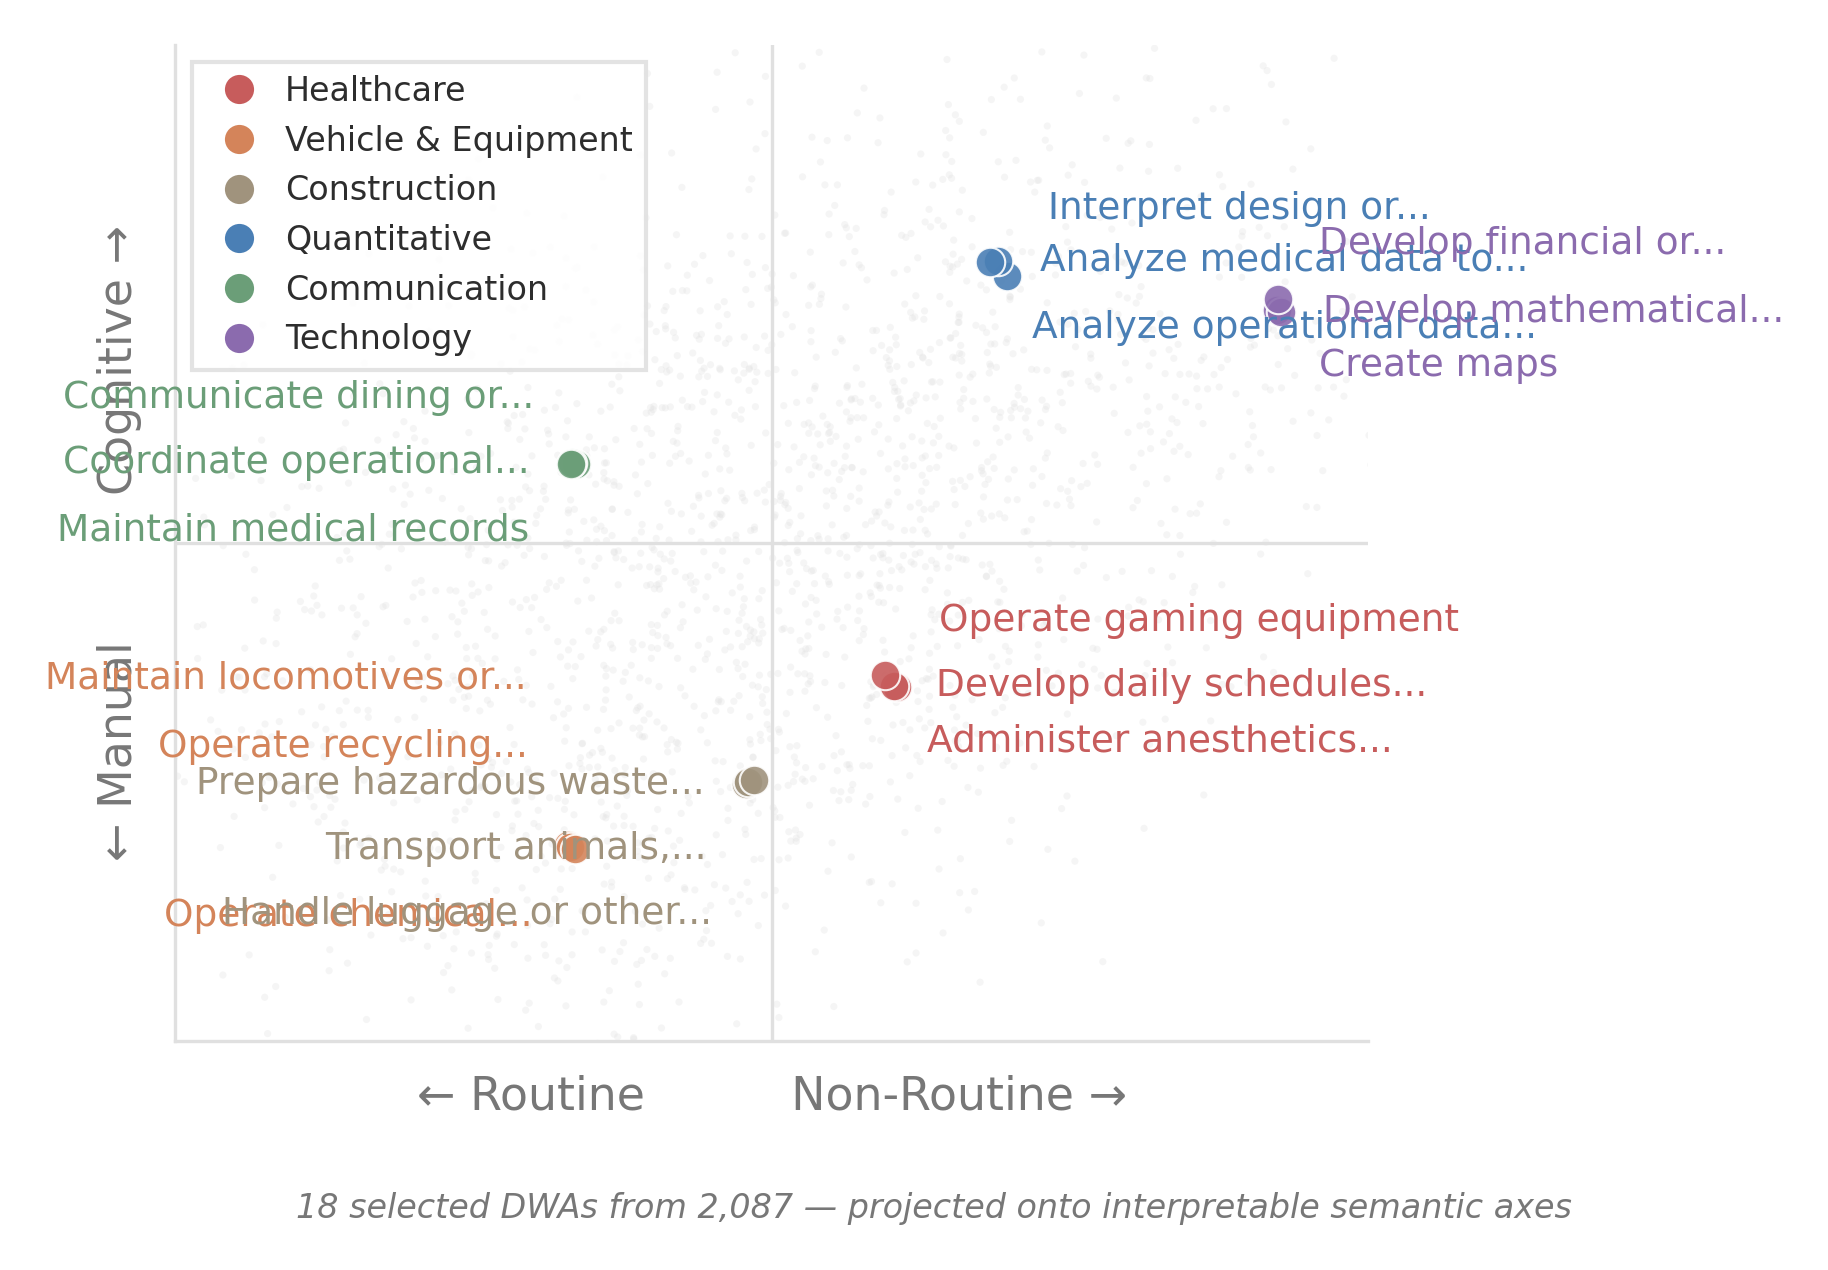
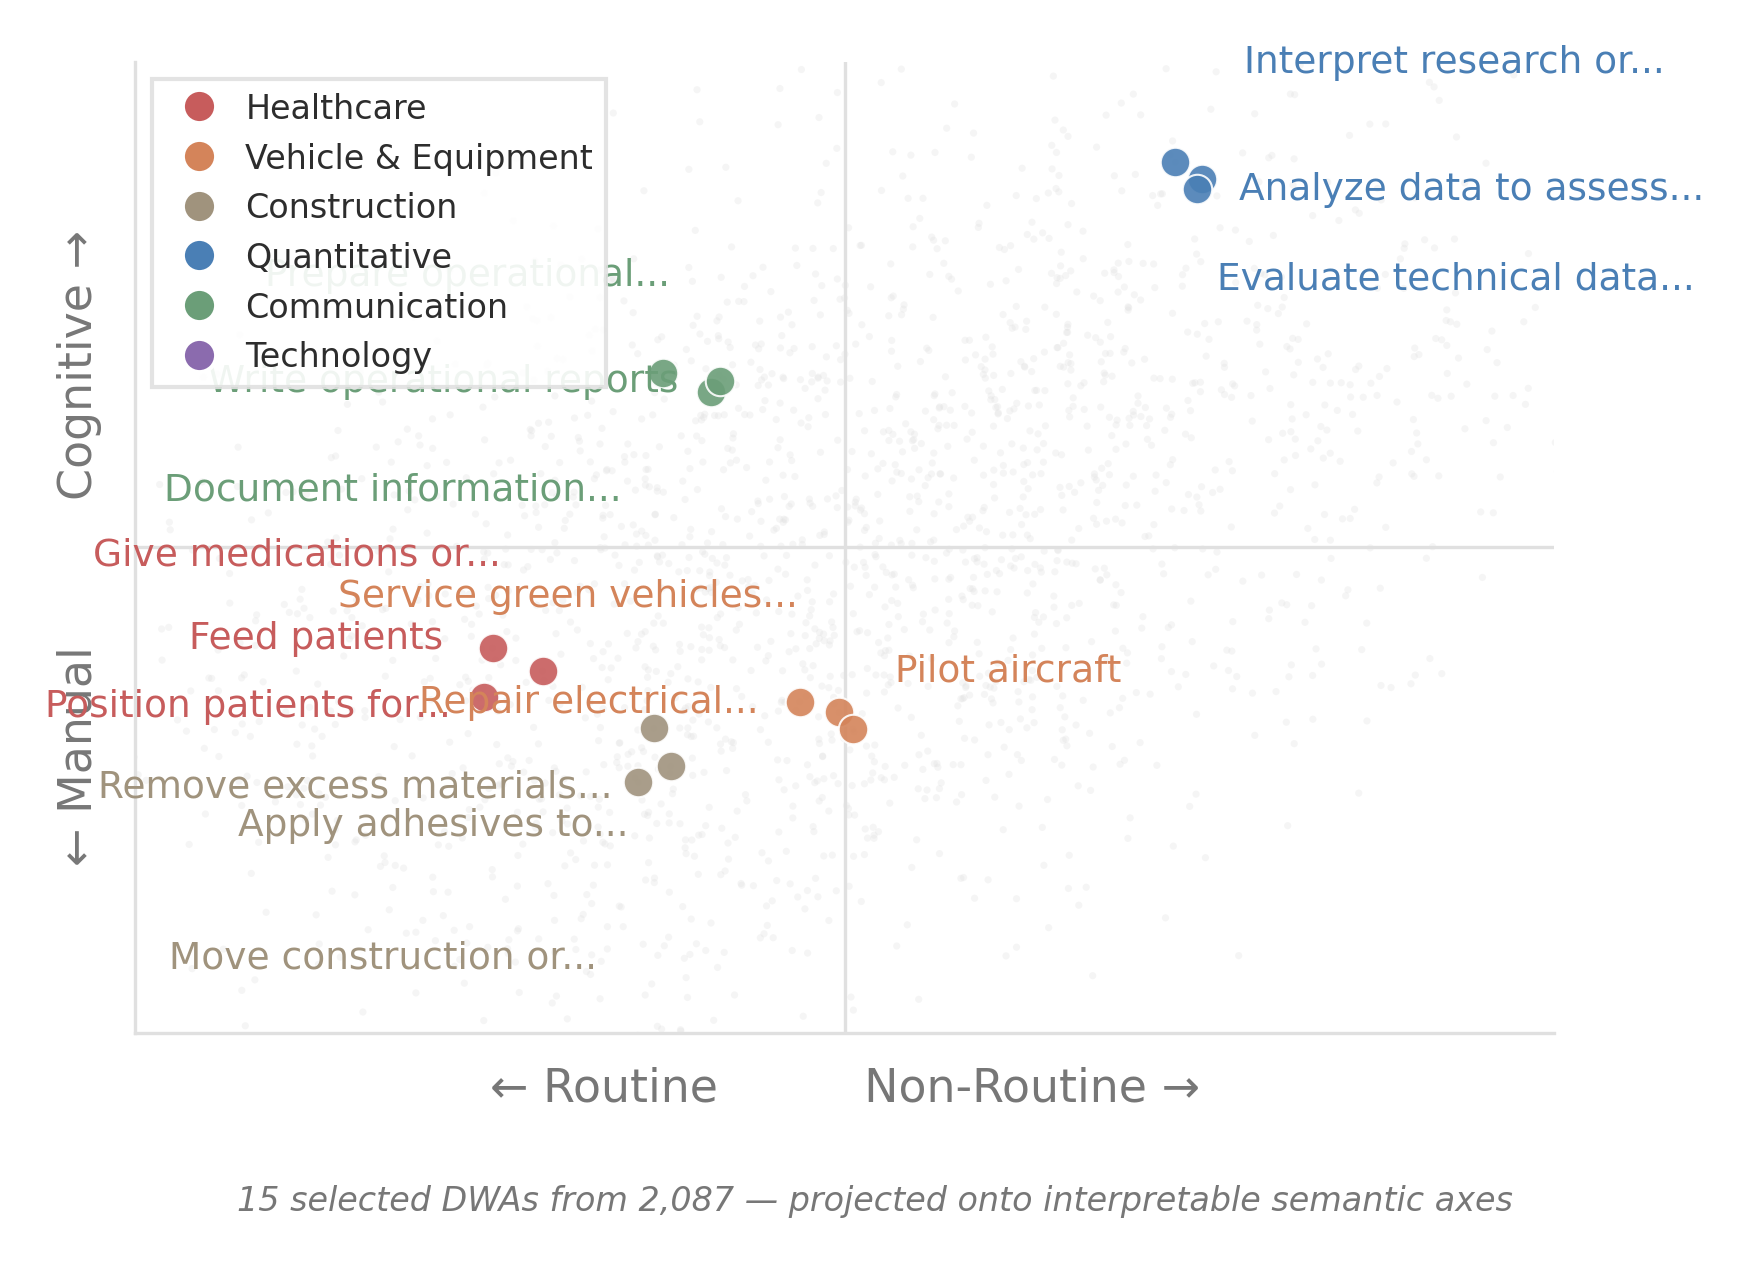
v0.7.10.6: Fig3 keyword-filtered theme assignment + diversity filter
Technology theme empty — 0 DWAs pass both GWA + keyword filter.
Other 5 themes produce thematically appropriate triples.
15 DWAs selected (was 18 target).

diff --git a/figures/fig3_task_scatter.py b/figures/fig3_task_scatter.py
@@ -1,6 +1,6 @@
 """
-Figure 3 v4 — Task embeddings with Routine/Manual semantic axes
-Density-based DWA selection: tightest 3-DWA cluster per theme.
+Figure 3 v5 — Task embeddings with Routine/Manual semantic axes
+Density-based DWA selection with keyword-filtered theme assignment.
 Target: Slide 4 ("Tasks in Semantic Space")
 """
 import sys, os
@@ -39,25 +39,49 @@ anchors = {
     'manual':      "manual physical hands-on bodily labor using tools and equipment",
 }
 
-# === GWA-to-theme mapping ===
+# === Stage 1: Narrowed GWA-to-theme mapping ===
+# Removed broad GWAs that leak irrelevant DWAs:
+#   "Performing for or Working Directly with the Public" (casino operators)
+#   "Handling and Moving Objects" (luggage handlers)
+#   "Thinking Creatively" (financial planners)
+#   "Controlling Machines and Processes" (too generic)
+#   "Processing Information" (too generic)
+#   "Communicating with Supervisors" (internal comms)
+#   "Updating and Using Relevant Knowledge" (too broad)
 GWA_TO_THEME = {
     'Assisting and Caring for Others': 'Healthcare',
-    'Performing for or Working Directly with the Public': 'Healthcare',
-    'Handling and Moving Objects': 'Construction',
     'Performing General Physical Activities': 'Construction',
     'Repairing and Maintaining Mechanical Equipment': 'Vehicle & Equipment',
     'Operating Vehicles, Mechanized Devices, or Equipment': 'Vehicle & Equipment',
-    'Controlling Machines and Processes': 'Vehicle & Equipment',
     'Analyzing Data or Information': 'Quantitative',
-    'Processing Information': 'Quantitative',
     'Estimating the Quantifiable Characteristics of Products, Events, or Information': 'Quantitative',
-    'Communicating with Supervisors, Peers, or Subordinates': 'Communication',
     'Communicating with People Outside the Organization': 'Communication',
     'Documenting/Recording Information': 'Communication',
     'Interacting With Computers': 'Technology',
-    'Thinking Creatively': 'Technology',
-    'Updating and Using Relevant Knowledge': 'Technology',
 }
+
+# === Stage 2: Keyword confirmation ===
+THEME_KEYWORDS = {
+    'Healthcare':          ['patient', 'medical', 'health', 'treat', 'diagnos', 'nurs',
+                            'therap', 'immuniz', 'prescri', 'symptom'],
+    'Vehicle & Equipment': ['vehicle', 'drive', 'truck', 'aircraft', 'pilot', 'forklift',
+                            'engine', 'mechanic', 'tire', 'cargo', 'equipment'],
+    'Construction':        ['construct', 'build', 'weld', 'masonry', 'concrete', 'plumb',
+                            'excavat', 'trench', 'scaffold', 'install', 'roofing', 'mortar',
+                            'lumber'],
+    'Quantitative':        ['financial', 'data', 'statistic', 'calculat', 'budget', 'quantit',
+                            'forecast', 'analyz', 'audit', 'account'],
+    'Communication':       ['document', 'write', 'edit', 'report', 'present', 'correspond',
+                            'publish', 'transcri', 'proofread'],
+    'Technology':          ['software', 'computer', 'network', 'program', 'database', 'server',
+                            'code', 'cyber', 'web', 'digital'],
+}
+
+
+def passes_keyword_filter(title, theme):
+    title_lower = title.lower()
+    return any(kw in title_lower for kw in THEME_KEYWORDS[theme])
+
 
 # === Load embeddings ===
 print("Loading DWA domain and embeddings...")
@@ -71,10 +95,23 @@ print(f"Loaded {len(dwa_ids)} DWAs, embeddings shape: {embeddings.shape}")
 # === Load GWA metadata ===
 dwa_meta = pd.read_excel('data/onet/db_30_0_excel/DWA Reference.xlsx')
 dwa_meta = dwa_meta[['DWA ID', 'Element Name']].drop_duplicates(subset='DWA ID').sort_values('DWA ID')
-# Align to domain order
 dwa_id_to_gwa = dict(zip(dwa_meta['DWA ID'], dwa_meta['Element Name']))
 gwa_names = [dwa_id_to_gwa.get(aid, '') for aid in dwa_ids]
-themes = [GWA_TO_THEME.get(g, None) for g in gwa_names]
+
+# Two-stage theme assignment: GWA narrows, keyword confirms
+themes = []
+for i, gwa in enumerate(gwa_names):
+    candidate_theme = GWA_TO_THEME.get(gwa, None)
+    if candidate_theme and passes_keyword_filter(dwa_texts[i], candidate_theme):
+        themes.append(candidate_theme)
+    else:
+        themes.append(None)
+
+# Report pool sizes
+print("\nTheme pool sizes (after GWA + keyword filter):")
+for theme in CLUSTER_COLORS:
+    n = sum(1 for t in themes if t == theme)
+    print(f"  {theme:<22s}  {n}")
 
 # === Embed anchors ===
 anchor_texts = list(anchors.values())
@@ -88,28 +125,27 @@ sim_r  = cos_sim(embeddings, anchor_dict['routine']).flatten()
 sim_c  = cos_sim(embeddings, anchor_dict['cognitive']).flatten()
 sim_m  = cos_sim(embeddings, anchor_dict['manual']).flatten()
 
-raw_x = sim_nr - sim_r   # routine (left) → non-routine (right)
-raw_y = sim_c - sim_m    # manual (bottom) → cognitive (top)
+raw_x = sim_nr - sim_r
+raw_y = sim_c - sim_m
 
-print(f"Raw X: mean={raw_x.mean():.4f}, std={raw_x.std():.4f}")
+print(f"\nRaw X: mean={raw_x.mean():.4f}, std={raw_x.std():.4f}")
 print(f"Raw Y: mean={raw_y.mean():.4f}, std={raw_y.std():.4f}")
 
 if raw_x.std() < 0.01 or raw_y.std() < 0.01:
     print("STOP: Axis std < 0.01 — anchors not discriminating")
     sys.exit(1)
 
-# Rescale to ~±5
 all_x = (raw_x - raw_x.mean()) / raw_x.std() * 2.5
 all_y = (raw_y - raw_y.mean()) / raw_y.std() * 2.5
 
 
 # === Density-based selection: tightest triple per theme ===
 def find_densest_triple(idxs, all_x, all_y, max_search=30):
-    """Find 3 points with minimum total pairwise 2D distance."""
+    """Find 3 points with minimum total pairwise 2D distance.
+    Requires all three DWAs to start with different first words."""
     xs = np.array([all_x[i] for i in idxs])
     ys = np.array([all_y[i] for i in idxs])
 
-    # For large groups, narrow search to densest region
     if len(idxs) > 50:
         tree = cKDTree(np.column_stack([xs, ys]))
         k = min(10, len(idxs) - 1)
@@ -122,14 +158,15 @@ def find_densest_triple(idxs, all_x, all_y, max_search=30):
 
     best_dist = float('inf')
     best = None
-    texts = [dwa_texts[i] for i in search]
     for combo in combinations(range(len(search)), 3):
-        i, j, k = combo
-        # Text diversity: require different first words
-        first_words = {texts[i].split()[0], texts[j].split()[0], texts[k].split()[0]}
-        if len(first_words) < 2:
+        a, b, c = combo
+        ii, jj, kk = search[a], search[b], search[c]
+        # Diversity: all three must start with different words
+        fw = [dwa_texts[ii].split()[0].lower(),
+              dwa_texts[jj].split()[0].lower(),
+              dwa_texts[kk].split()[0].lower()]
+        if len(set(fw)) < 3:
             continue
-        ii, jj, kk = search[i], search[j], search[k]
         d = (np.hypot(all_x[ii] - all_x[jj], all_y[ii] - all_y[jj]) +
              np.hypot(all_x[ii] - all_x[kk], all_y[ii] - all_y[kk]) +
              np.hypot(all_x[jj] - all_x[kk], all_y[jj] - all_y[kk]))
@@ -140,13 +177,17 @@ def find_densest_triple(idxs, all_x, all_y, max_search=30):
 
 
 selected = []
+print("\n=== Selected triples ===")
 for theme in CLUSTER_COLORS:
     idxs = [i for i, t in enumerate(themes) if t == theme]
     if len(idxs) < 3:
-        print(f"WARNING: {theme} has only {len(idxs)} DWAs")
+        print(f"WARNING: {theme} has only {len(idxs)} DWAs — cannot form triple")
         continue
     triple, dist = find_densest_triple(idxs, all_x, all_y)
-    print(f"{theme}: dist={dist:.3f}")
+    if triple is None:
+        print(f"WARNING: {theme} — no diverse triple found")
+        continue
+    print(f"\n{theme}: total_dist={dist:.3f}")
     for idx in triple:
         print(f"  ({all_x[idx]:+.2f}, {all_y[idx]:+.2f})  {dwa_texts[idx]}")
         selected.append({
@@ -172,7 +213,6 @@ def short_label(text, max_len=25):
 
 
 # === Collision-aware label placement ===
-# Approximate points-per-data-unit for the figure
 fig_temp = plt.figure(figsize=(6.0, 4.0))
 ax_temp = fig_temp.add_subplot(111)
 ax_temp.set_xlim(-5.5, 5.5)
@@ -195,21 +235,31 @@ for _, row in sel_df.iterrows():
         'color': CLUSTER_COLORS[row['cluster_name']],
     })
 
-# Collision resolution — bump overlapping labels vertically
+# Collision resolution — bump overlapping labels vertically (±14 for cross-theme)
 for i in range(len(label_positions)):
     for j in range(i + 1, len(label_positions)):
         li, lj = label_positions[i], label_positions[j]
         dx = abs((li['x'] + li['x_off'] / ppdu_x) - (lj['x'] + lj['x_off'] / ppdu_x))
         dy = abs((li['y'] + li['y_off'] / ppdu_y) - (lj['y'] + lj['y_off'] / ppdu_y))
         if dx < 2.0 and dy < 0.6:
-            li['y_off'] += 8
-            lj['y_off'] -= 8
+            li['y_off'] += 14
+            lj['y_off'] -= 14
 
 # Legend collision: if label lands in upper-left quadrant, flip to other side
 for lp in label_positions:
     label_x = lp['x'] + lp['x_off'] / ppdu_x
     label_y = lp['y'] + lp['y_off'] / ppdu_y
     if label_x < -2.0 and label_y > 2.5:
+        lp['x_off'] = 10
+        lp['ha'] = 'left'
+
+# Boundary check: if label extends past axis limits, flip side
+for lp in label_positions:
+    label_x = lp['x'] + lp['x_off'] / ppdu_x
+    if label_x > 5.0 and lp['ha'] == 'left':
+        lp['x_off'] = -10
+        lp['ha'] = 'right'
+    elif label_x < -5.0 and lp['ha'] == 'right':
         lp['x_off'] = 10
         lp['ha'] = 'left'
 
@@ -237,7 +287,7 @@ for theme in CLUSTER_COLORS:
     ax.scatter(group['x'], group['y'], s=50, c=color,
                edgecolors='white', linewidths=0.5, alpha=0.9, zorder=2)
 
-# Labels for all 18 selected DWAs
+# Labels for all selected DWAs
 for lp in label_positions:
     ax.annotate(lp['label'], xy=(lp['x'], lp['y']), xycoords='data',
                 xytext=(lp['x_off'], lp['y_off']), textcoords='offset points',
@@ -268,7 +318,7 @@ ax.spines['bottom'].set_color(GRID)
 ax.spines['left'].set_color(GRID)
 
 plt.tight_layout()
-add_subtitle(fig, f'{len(sel_df)} selected DWAs from {len(dwa_ids):,} — projected onto interpretable semantic axes')
+add_subtitle(fig, f'{len(sel_df)} selected DWAs from {len(dwa_ids):,} \u2014 projected onto interpretable semantic axes')
 plt.savefig('figures/fig3_task_scatter.png', dpi=300, bbox_inches='tight',
             facecolor='white', edgecolor='none')
 plt.close()

diff --git a/LEDGER.md b/LEDGER.md
@@ -1,6 +1,6 @@
 # LEDGER.md — Task-Space Oracle Research State
 
-**Current Version:** 0.7.10.5
+**Current Version:** 0.7.10.6
 **Last Updated:** 2026-03-10
 **Paper Draft:** `paper/main.tex`
 
@@ -764,6 +764,7 @@ Deprecated approaches. Do not retry.
 | Version | Date | Changes |
 |---------|------|---------|
 | 0.7.9.3 | 2026-03-09 | Captions for fig3/fig4, swap fig5/fig6 to Budget vs Credit Analysts. |
+| 0.7.10.6 | 2026-03-10 | Fig3 keyword-filtered theme assignment + diversity filter. Technology theme empty (0 DWAs pass filter). |
 | 0.7.10.5 | 2026-03-10 | Fig3 programmatic DWA selection — density-based tightest triples, collision-aware labels, legend to upper-left. GWA mapping needs tightening. |
 | 0.7.10.4 | 2026-03-10 | Fig9 swap to Atlanta/Georgia/Colorado/Denver analogy. |
 | 0.7.10.3 | 2026-03-10 | Fig9 redesigned as Word2Vec illustration with attribution; fig8 arrow padding. |
